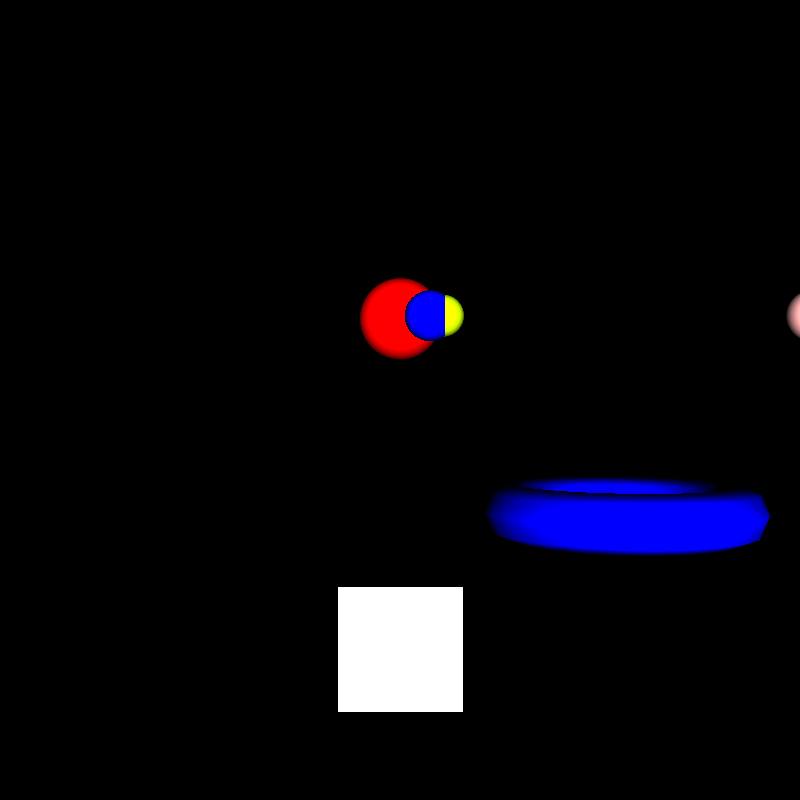
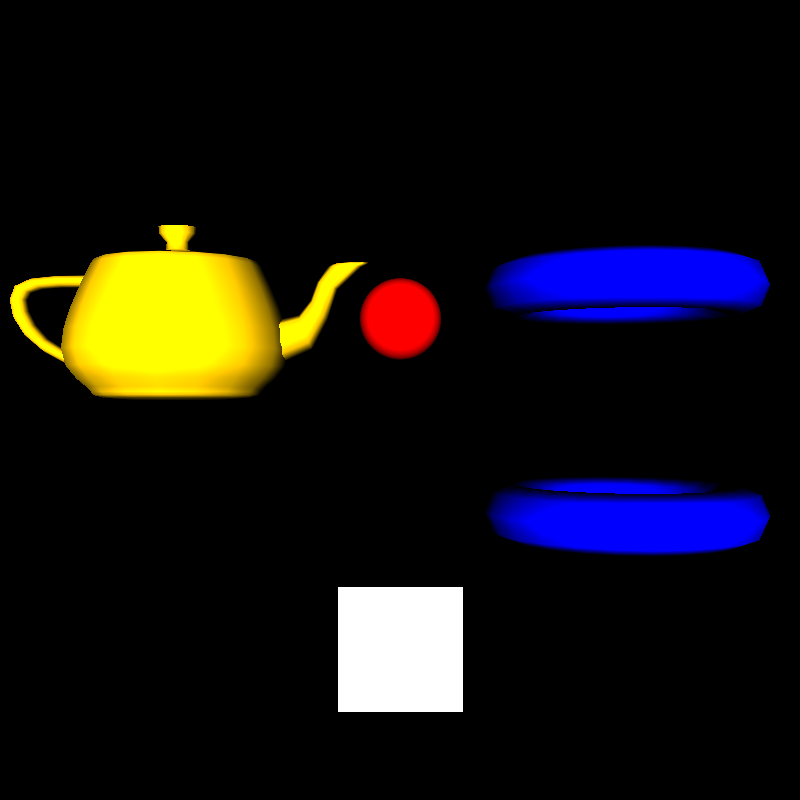
Point-light-class-creation

Changed region(s): [[0.0, 0.2812, 0.4688, 0.5], [0.5938, 0.2812, 1.0, 0.4375], [0.5, 0.3438, 0.5938, 0.4375]]

diff --git a/src/edu/up/isgc/raytracer/Raytracer.java b/src/edu/up/isgc/raytracer/Raytracer.java
@@ -35,12 +35,10 @@ public class Raytracer {
 		sceneRoot.addLight(new DirectionalLight(Vector3D.ZERO(), new Vector3D(0.0, 0.0, 1.0), Color.WHITE, 1.6));
 		
 		sceneRoot.addObject(new Sphere(new Vector3D(0f, 1f, 5f), 0.5f, Color.RED));
-		sceneRoot.addObject(new Sphere(new Vector3D(0.5f, 1f, 4.5f), 0.25f, new Color(200,255,0)));
-		sceneRoot.addObject(new Sphere(new Vector3D(0.35f, 1f, 4.5f), 0.3f, Color.BLUE));
-		sceneRoot.addObject(new Sphere(new Vector3D(4.85f, 1f, 4.5f), 0.3f, Color.PINK));
-		sceneRoot.addObject(new Sphere(new Vector3D(2.85f, 1f, 304.5f), 0.5f, Color.BLUE));
 		sceneRoot.addObject(OBJReader.GetPolygon("Cube.obj", new Vector3D(0f, -2.5f, 1f), Color.WHITE));
 		sceneRoot.addObject(OBJReader.GetPolygon("ring.obj", new Vector3D(2f, -1.0f, 1.5f), Color.blue));
+		sceneRoot.addObject(OBJReader.GetPolygon("ring.obj", new Vector3D(2f, 1f, 1.5f), Color.blue));
+		sceneRoot.addObject(OBJReader.GetPolygon("smallTeapot.obj", new Vector3D(-2f, 0f, 1.5f), Color.ORANGE));
 
 		BufferedImage image = raytrace(sceneRoot);
 		File outputImage = new File("image.png");

diff --git a/src/edu/up/isgc/raytracer/lights/PointLight.java b/src/edu/up/isgc/raytracer/lights/PointLight.java
@@ -21,8 +21,6 @@ public class PointLight extends Object3D{
 		super(position, color);
 		// TODO Auto-generated constructor stub
 	}
-	
-	
 
 	@Override
 	public Intersection getIntersection(Ray ray) {
